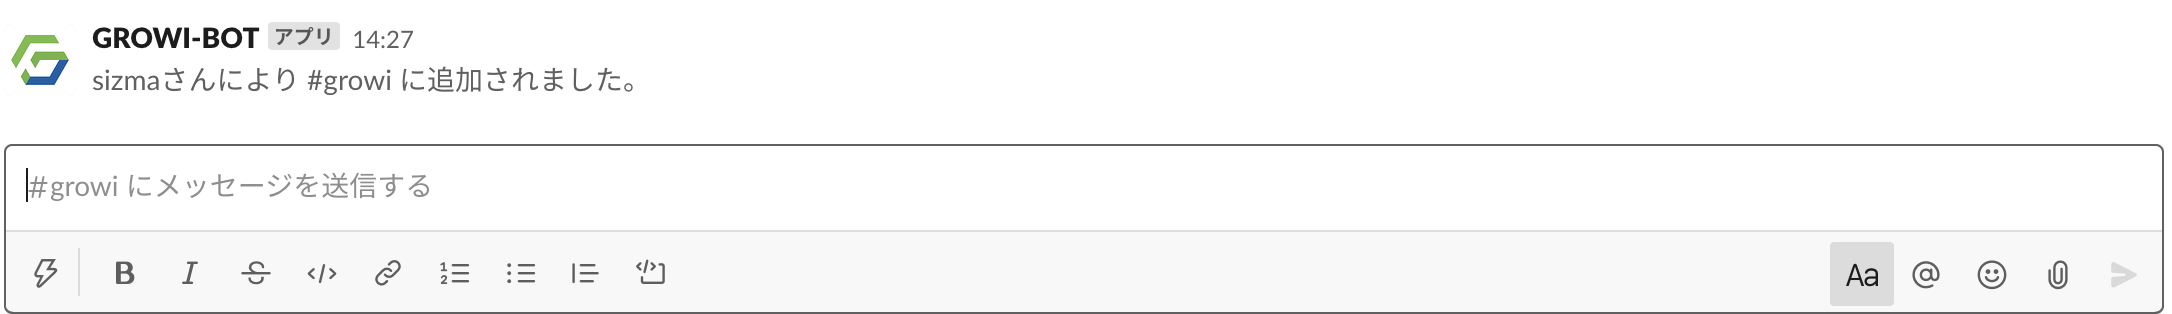
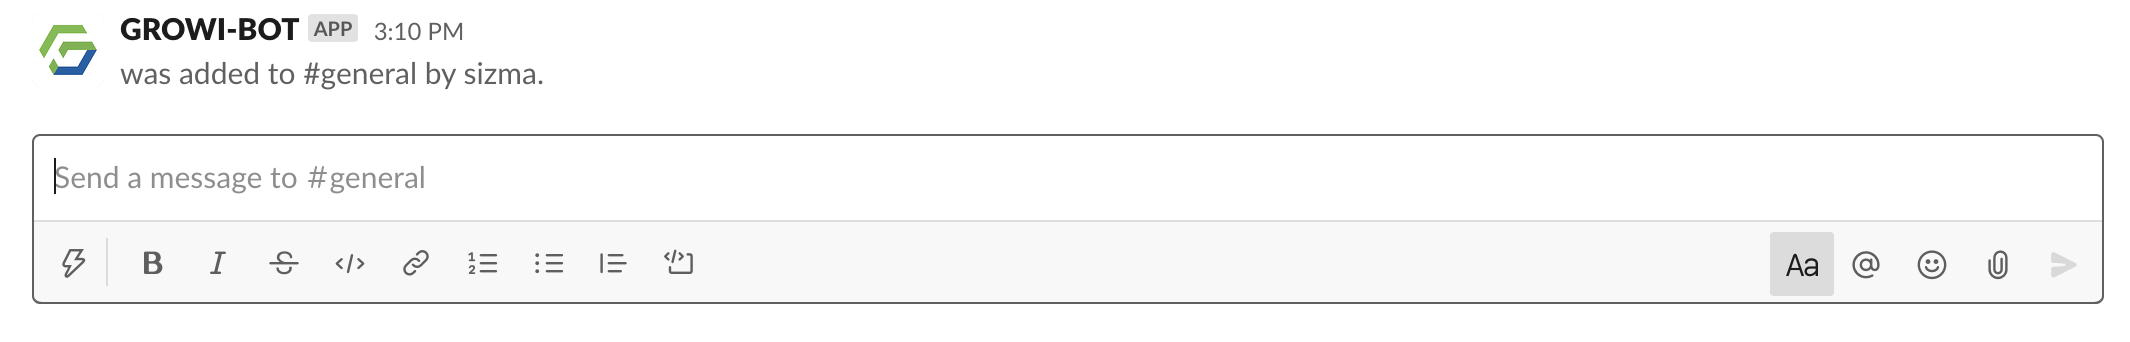
fix jp en

Changed region(s): [[0.0, 0.4586, 1.0, 1.0], [0.0, 0.0287, 0.3099, 0.2866], [0.0, 0.3726, 0.9915, 0.4013]]

diff --git a/docs/en/admin-guide/management-cookbook/slack-integration.md b/docs/en/admin-guide/management-cookbook/slack-integration.md
@@ -136,7 +136,6 @@ To deploy a custom bot (non-proxy) in your Slack workspace, you need to create a
 1. If you see a green check mark to the right of Install your app, the installation is complete in your workspace.
    ![install-your-app-complete](../../../ja/admin-guide/management-cookbook/images/install-your-app-complete.png)
 1. Invite the channel you want to use the GROWI bot on using @example.
-   <!-- 差し替え -->
    ![install-to-workspace-joined-bot](../../../ja/admin-guide/management-cookbook/images/install-to-workspace-joined-bot.png)
    ![install-your-app-introduction-to-channel](../../../ja/admin-guide/management-cookbook/images/install-your-app-introduction-to-channel.png)
 
@@ -162,8 +161,6 @@ Set up a Slack workspace for notifications.
 
 After the above settings, a Slack notification form will be added to the edit mode screen of the page.
 
-<!-- 差し替え -->
-
 ![slack1](../../../ja/admin-guide/management-cookbook/images/slack1.png)
 
 When a page is saved or updated, a Slack notification is sent to the channel you entered.  
@@ -179,14 +176,13 @@ For details on how to configure User Trigger Notification, please refer to here
 
 1. If you enter /growi search [keyword(s)], the search results will be displayed.
    - e.g. /growi search example
-     <!-- 差し替え全部 -->
      ![full-text-search-display-result-command](../../../ja/admin-guide/management-cookbook/images/full-text-search-display-result-command.png)
    - Search results
      ![full-text-search-display-result](../../../ja/admin-guide/management-cookbook/images/full-text-search-display-result.png)
    - Click the **Next** button to display the next search result.
-     <!-- TODO post pictures after https://youtrack.weseek.co.jp/issue/GW-5283 -->
+     ![full-text-search-click-next](../../../ja/admin-guide/management-cookbook/images/full-text-search-click-next.png)
    - Click the **Share** button to share it within the channel.
-     ![full-text-search-share](../../../ja/admin-guide/management-cookbook/images/full-text-search-share.png)
+     ![full-text-search-click-share](../../../ja/admin-guide/management-cookbook/images/full-text-search-click-share.png)
 
 <!-- ### 複数ワークスペースの横断検索 (TBD) -->
 

diff --git a/docs/ja/admin-guide/management-cookbook/slack-integration.md b/docs/ja/admin-guide/management-cookbook/slack-integration.md
@@ -178,9 +178,9 @@ User Trigger Notification の設定方法は[こちら](../management-cookbook/e
    - 検索結果
      ![full-text-search-display-result](./images/full-text-search-display-result.png)
    - **Next** ボタンをクリックすると、次の検索結果を表示します。
-     <!-- TODO post pictures after https://youtrack.weseek.co.jp/issue/GW-5283 -->
+     ![full-text-search-click-next](./images/full-text-search-click-next.png)
    - **Share** ボタンをクリックすると、チャンネル内に共有されます。
-     ![full-text-search-share](./images/full-text-search-share.png)
+     ![full-text-search-click-share](./images/full-text-search-click-share.png)
 
 <!-- ### 複数ワークスペースの横断検索 (TBD) -->
 
